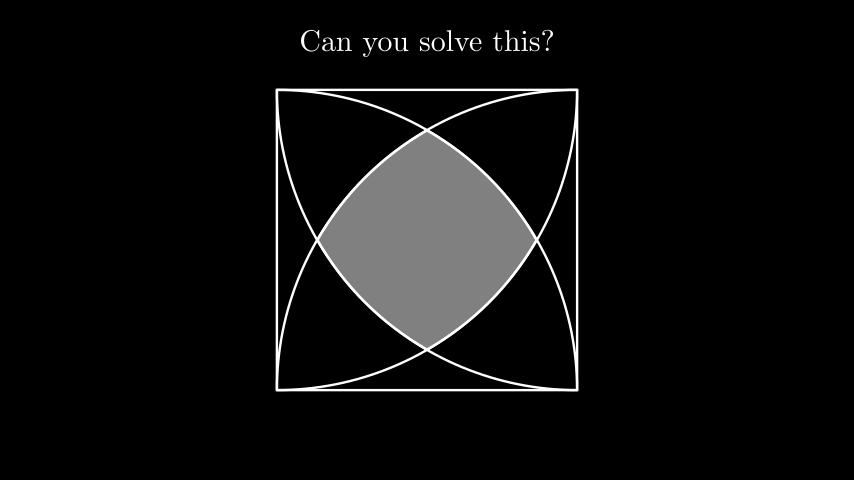
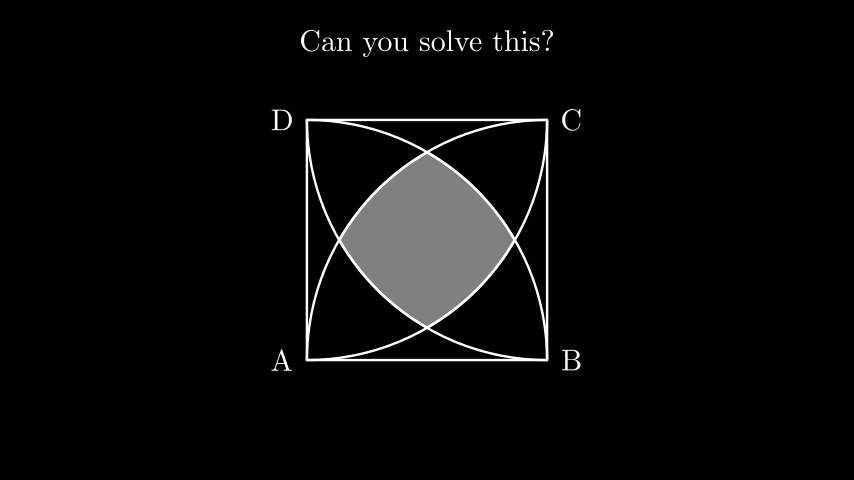
a

Changed region(s): [[0.3044, 0.1562, 0.7002, 0.8438]]

diff --git a/ForVideos/2024/AGeometryProblem/main.py b/ForVideos/2024/AGeometryProblem/main.py
@@ -3,23 +3,31 @@ from manim import *
 # The Thumbnail
 class ThumbNail(Scene):
     def construct(self):
-        s = Square().scale(2.5)
+        s = Square().scale(2)
+
+        # Length of a side of a square
+        side = Line(s.get_vertices()[0], s.get_vertices()[1])
+
+        # Makes a point on each of the verticies
+        VertA = Point(s.get_vertices()[2])
+        VertB = Point(s.get_vertices()[3])
+        VertC = Point(s.get_vertices()[0])
+        VertD = Point(s.get_vertices()[1])
+
+        # Label for each of the verticies
+        A = Tex("A").next_to(VertA, LEFT)
+        B = Tex("B").next_to(VertB, RIGHT)
+        C = Tex("C").next_to(VertC, RIGHT)
+        D = Tex("D").next_to(VertD, LEFT)
+        
+        # Side Length
+        M = Point(Line)
 
         # Quarter Circles
         A1 = ArcBetweenPoints(s.get_vertices()[0], s.get_vertices()[2])
         A2 = ArcBetweenPoints(s.get_vertices()[1], s.get_vertices()[3])
         A3 = ArcBetweenPoints(s.get_vertices()[2], s.get_vertices()[0])
         A4 = ArcBetweenPoints(s.get_vertices()[3], s.get_vertices()[1])
-
-        # Makes a point on each of the verticies
-        A = Point(s.get_vertices()[0])
-        B = Point(s.get_vertices()[1])
-        C = Point(s.get_vertices()[2])
-        D = Point(s.get_vertices()[3])
-        
-
-        # Length of a side of a square
-        side = Line(s.get_vertices()[0], s.get_vertices()[1])
 
         # A Circle that makes the arcs mobjects
         A1mob = Circle(radius = side.get_length()).move_to(s.get_vertices()[0])
@@ -34,4 +42,5 @@ class ThumbNail(Scene):
         q = Tex("Can you solve this?").to_edge(UP, buff=0.5)
 
         self.add(VGroup(s, A1, A2, A3, A4))
-        self.add(ShadedArea, q, A)
+        self.add(ShadedArea, q)
+        self.add(A, B, C, D)

diff --git a/media/Tex/425a5a2edcee147f.tex b/media/Tex/425a5a2edcee147f.tex
@@ -1,0 +1,9 @@
+\documentclass[preview]{standalone}
+\usepackage[english]{babel}
+\usepackage{amsmath}
+\usepackage{amssymb}
+\begin{document}
+\begin{center}
+C
+\end{center}
+\end{document}

diff --git a/media/Tex/afdf6c97006e9e7b.tex b/media/Tex/afdf6c97006e9e7b.tex
@@ -1,0 +1,9 @@
+\documentclass[preview]{standalone}
+\usepackage[english]{babel}
+\usepackage{amsmath}
+\usepackage{amssymb}
+\begin{document}
+\begin{center}
+B
+\end{center}
+\end{document}

diff --git a/media/Tex/d393ddf92d9f1398.tex b/media/Tex/d393ddf92d9f1398.tex
@@ -1,0 +1,9 @@
+\documentclass[preview]{standalone}
+\usepackage[english]{babel}
+\usepackage{amsmath}
+\usepackage{amssymb}
+\begin{document}
+\begin{center}
+D
+\end{center}
+\end{document}

diff --git a/media/Tex/dba7d601a6d99f08.tex b/media/Tex/dba7d601a6d99f08.tex
@@ -1,0 +1,9 @@
+\documentclass[preview]{standalone}
+\usepackage[english]{babel}
+\usepackage{amsmath}
+\usepackage{amssymb}
+\begin{document}
+\begin{center}
+A
+\end{center}
+\end{document}
